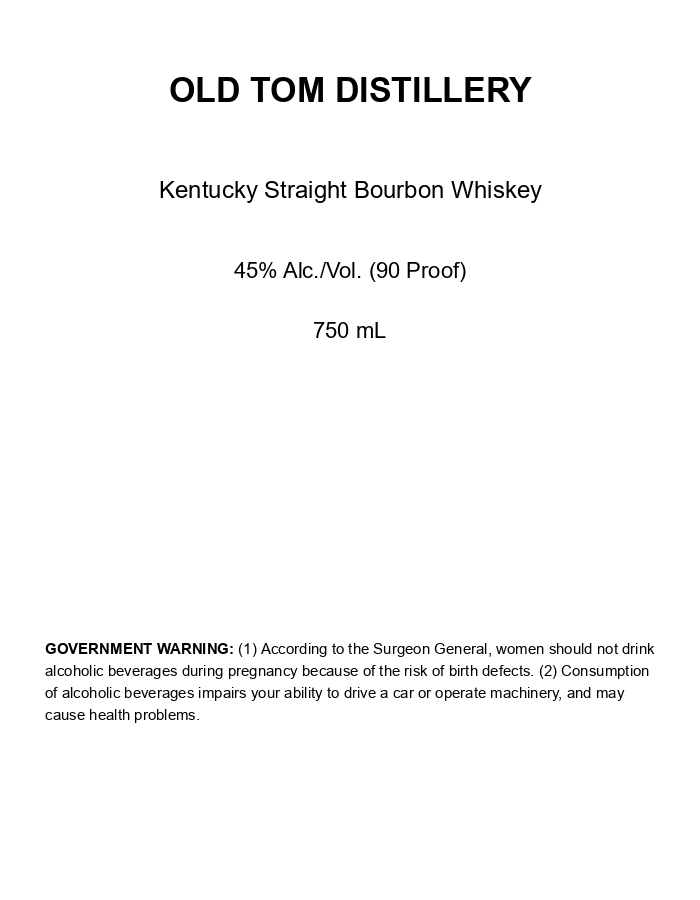
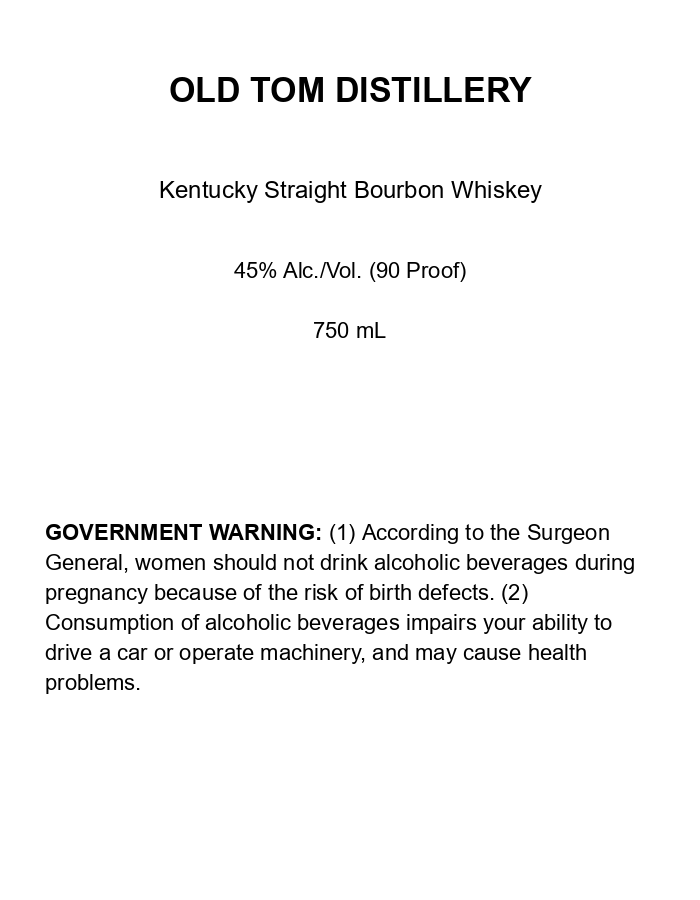
feat: bold detection — the GOVERNMENT WARNING typography check (16.22(a)(2))
Reads boldness from pixels (labels are raster; no font name to read). Mean stroke
width of the heading vs the body text on the same line: because they share a line
and type size, raw stroke widths compare directly (ratio >=1.30 bold, <=1.12 not,
between is review), and cap height only gates out text too small to judge (<14px,
which is where real 1-2mm warnings correctly land). One relative test enforces
both halves of the rule — a fully-bolded warning also fails, since the body would
be just as heavy as the heading.

- match/bold: stroke-width core (Otsu -> tall connected components -> skeleton ->
  distance transform) + the same-line locator, tolerant of OCR word-joins.
- rulebook: health_warning_bold rule (warning_bold strategy), wired via a lazy
  CV import so the engine stays importable without the vision deps.
- sample warning enlarged so the bold check is judgeable for the demo.

53 tests. Verified end-to-end: the compliant sample now returns PASS on all four
checks — warning verbatim, warning bold (ratio 1.53), brand, ABV consistency.

Assisted-by: Claude (claude-opus-4-8)

Changed region(s): [[0.06, 0.56, 0.93, 0.8089]]

diff --git a/src/label_assay/match/bold.py b/src/label_assay/match/bold.py
@@ -1,0 +1,133 @@
+"""Bold detection for the Government Warning heading — 27 CFR 16.22(a)(2).
+
+The heading words of the warning must appear in bold and the remainder must not.
+Bold cannot be read from a font name (labels arrive as raster images), so it is
+measured: the mean stroke width of the heading is compared against the body text
+sitting on the same line, at the same size. The comparison is RELATIVE and
+INTERNAL — no absolute DPI is needed, only "are the heading's strokes meaningfully
+thicker than the body's, right next to it."
+
+Method: mean stroke width from the distance transform over the skeleton of the
+tall connected components (which drops small punctuation). Because the heading
+and the body share a line and a type size, their raw stroke widths compare
+directly — a ratio at/above 1.30 is bold, at/below 1.12 is not, in between is a
+human call. Cap height is used only to abstain when the text is under ~14px (too
+small to judge from pixels). Tuned so a false "bold" (approving a non-compliant
+label) is near-zero; residual errors fall to review.
+"""
+
+from __future__ import annotations
+
+import enum
+import io
+import re
+from dataclasses import dataclass
+
+_MIN_CAP_PX = 14.0
+_BOLD_RATIO = 1.30
+_NOT_BOLD_RATIO = 1.12
+
+
+class BoldVerdict(enum.StrEnum):
+    BOLD_OK = "bold_ok"      # heading bold, remainder not
+    NOT_BOLD = "not_bold"    # heading not distinctly bolder than the body
+    REVIEW = "review"        # too small / could not measure
+
+
+@dataclass(frozen=True)
+class BoldFinding:
+    verdict: BoldVerdict
+    detail: str
+    ratio: float | None
+
+
+@dataclass(frozen=True)
+class _Strokes:
+    stroke_px: float  # mean stroke width in pixels
+    cap_px: float     # cap height in pixels, for the too-small-to-judge guard
+
+
+def measure_strokes(gray) -> _Strokes | None:
+    """Mean stroke-width-to-cap-height for the dark text in a grayscale crop."""
+    import cv2
+    import numpy as np
+    from skimage.morphology import skeletonize
+
+    if gray is None or gray.size == 0 or min(gray.shape[:2]) < 4:
+        return None
+
+    # Otsu; on a light label, THRESH_BINARY_INV makes dark text the foreground.
+    _thr, binary = cv2.threshold(gray, 0, 255, cv2.THRESH_BINARY_INV | cv2.THRESH_OTSU)
+    if (binary > 0).mean() > 0.5:  # text should be the minority; fix polarity if not
+        binary = cv2.bitwise_not(binary)
+    if int((binary > 0).sum()) < 20:
+        return None
+
+    count, labels, stats, _centroids = cv2.connectedComponentsWithStats(binary, connectivity=8)
+    if count <= 1:
+        return None
+    heights = stats[1:, cv2.CC_STAT_HEIGHT]
+    tall_threshold = 0.6 * float(heights.max())
+    tall_ids = [i for i in range(1, count) if stats[i, cv2.CC_STAT_HEIGHT] >= tall_threshold]
+    if not tall_ids:
+        return None
+
+    cap = float(np.median([stats[i, cv2.CC_STAT_HEIGHT] for i in tall_ids]))
+    tall_mask = np.isin(labels, tall_ids)
+    skeleton = skeletonize(tall_mask)
+    if not skeleton.any() or cap <= 0:
+        return None
+
+    dist = cv2.distanceTransform(tall_mask.astype(np.uint8), cv2.DIST_L2, 5)
+    stroke = float(np.mean(2.0 * dist[skeleton]))
+    return _Strokes(stroke_px=stroke, cap_px=cap)
+
+
+def bold_ratio_verdict(head_gray, body_gray) -> BoldFinding:
+    head, body = measure_strokes(head_gray), measure_strokes(body_gray)
+    if head is None or body is None or body.stroke_px <= 0:
+        return BoldFinding(BoldVerdict.REVIEW, "Could not measure stroke widths reliably.", None)
+    if min(head.cap_px, body.cap_px) < _MIN_CAP_PX:
+        return BoldFinding(BoldVerdict.REVIEW, "Warning text is too small to judge boldness from the image.", None)
+
+    ratio = head.stroke_px / body.stroke_px
+    if ratio >= _BOLD_RATIO:
+        return BoldFinding(BoldVerdict.BOLD_OK, f"The heading is bolder than the body text (ratio {ratio:.2f}).", ratio)
+    if ratio <= _NOT_BOLD_RATIO:
+        return BoldFinding(
+            BoldVerdict.NOT_BOLD,
+            f"The heading is not distinctly bolder than the rest of the statement (ratio {ratio:.2f}).",
+            ratio,
+        )
+    return BoldFinding(BoldVerdict.REVIEW, f"Heading weight is borderline (ratio {ratio:.2f}).", ratio)
+
+
+def check_warning_bold(image: bytes, ocr_lines) -> BoldFinding:
+    """Locate the warning heading via OCR, split it into the heading words and the
+    body text on the same line, and compare their stroke widths."""
+    import numpy as np
+    from PIL import Image
+
+    gray = np.asarray(Image.open(io.BytesIO(image)).convert("L"))
+    # OCR often drops the space between rendered words ("GOVERNMENTWARNING"), so
+    # locate the heading on the space-insensitive form.
+    line = next(
+        (ln for ln in ocr_lines if ln.box and "governmentwarning" in re.sub(r"[^a-z0-9]", "", ln.text.casefold())),
+        None,
+    )
+    if line is None:
+        return BoldFinding(BoldVerdict.REVIEW, "Could not locate the warning heading to check boldness.", None)
+
+    xs = [p[0] for p in line.box]
+    ys = [p[1] for p in line.box]
+    x0, x1, y0, y1 = int(min(xs)), int(max(xs)), int(min(ys)), int(max(ys))
+
+    match = re.search(r"warning", line.text, re.IGNORECASE)
+    if not match:
+        return BoldFinding(BoldVerdict.REVIEW, "Could not delimit the warning heading.", None)
+    split = x0 + int((x1 - x0) * (match.end() / len(line.text)))
+
+    head, body = gray[y0:y1, x0:split], gray[y0:y1, split:x1]
+    if head.size == 0 or body.size == 0 or (x1 - split) < 10:
+        return BoldFinding(BoldVerdict.REVIEW, "Not enough body text beside the heading to compare.", None)
+    return bold_ratio_verdict(head, body)

diff --git a/tests/test_bold.py b/tests/test_bold.py
@@ -1,0 +1,57 @@
+"""Bold detection: the stroke-width algorithm on controlled crops, and the
+warning-region locator on the sample label."""
+
+from __future__ import annotations
+
+from pathlib import Path
+
+import numpy as np
+import pytest
+from PIL import Image, ImageDraw, ImageFont
+
+from label_assay.match.bold import BoldVerdict, bold_ratio_verdict, check_warning_bold
+
+SAMPLE = Path(__file__).resolve().parents[1] / "samples" / "bourbon_compliant.png"
+
+
+def _crop(text: str, *, bold: bool, size: int = 40) -> np.ndarray:
+    names = ("arialbd.ttf", "DejaVuSans-Bold.ttf") if bold else ("arial.ttf", "DejaVuSans.ttf")
+    font: ImageFont.FreeTypeFont | ImageFont.ImageFont = ImageFont.load_default(size)
+    for name in names:
+        try:
+            font = ImageFont.truetype(name, size)
+            break
+        except OSError:
+            continue
+    img = Image.new("L", (640, 72), color=255)
+    ImageDraw.Draw(img).text((6, 6), text, font=font, fill=0)
+    return np.asarray(img)
+
+
+def test_bold_heading_beats_regular_body() -> None:
+    head = _crop("GOVERNMENT WARNING", bold=True)
+    body = _crop("according to the surgeon general", bold=False)
+    assert bold_ratio_verdict(head, body).verdict == BoldVerdict.BOLD_OK
+
+
+def test_regular_heading_is_not_flagged_bold() -> None:
+    head = _crop("GOVERNMENT WARNING", bold=False)
+    body = _crop("according to the surgeon general", bold=False)
+    assert bold_ratio_verdict(head, body).verdict != BoldVerdict.BOLD_OK
+
+
+def test_tiny_text_abstains_to_review() -> None:
+    # Below the ~14px cap-height floor the check must not commit either way.
+    head = _crop("GOVERNMENT WARNING", bold=True, size=12)
+    body = _crop("according to the surgeon general", bold=False, size=12)
+    assert bold_ratio_verdict(head, body).verdict == BoldVerdict.REVIEW
+
+
+@pytest.mark.skipif(not SAMPLE.exists(), reason="run samples/make_samples.py first")
+def test_sample_bold_heading_is_not_falsely_failed() -> None:
+    from label_assay.extract.ocr import read_lines
+
+    image = SAMPLE.read_bytes()
+    result = check_warning_bold(image, read_lines(image))
+    # The sample's heading is genuinely bold; the check must never FAIL it.
+    assert result.verdict != BoldVerdict.NOT_BOLD

diff --git a/src/label_assay/verify/engine.py b/src/label_assay/verify/engine.py
@@ -90,12 +90,28 @@ def _match_abv_consistency(rule: Rule, ctx: VerifyContext) -> Finding:
     return _finding(rule, Verdict.PASS, "The stated alcohol content is internally consistent.")
 
 
+def _match_warning_bold(rule: Rule, ctx: VerifyContext) -> Finding:
+    if ctx.image is None or not ctx.ocr_lines:
+        return _finding(rule, Verdict.NOT_EVALUABLE, "Boldness was not checked (image or OCR not available).")
+    # Imported lazily so the engine stays importable without the CV dependencies.
+    from label_assay.match.bold import BoldVerdict, check_warning_bold
+
+    result = check_warning_bold(ctx.image, ctx.ocr_lines)
+    mapping = {
+        BoldVerdict.BOLD_OK: Verdict.PASS,
+        BoldVerdict.NOT_BOLD: Verdict.FAIL,
+        BoldVerdict.REVIEW: Verdict.NEEDS_REVIEW,
+    }
+    return _finding(rule, mapping[result.verdict], result.detail)
+
+
 # Strategy name -> matcher. The rulebook selects the strategy; the engine never
 # names an individual rule. A rule whose strategy has no matcher yet is skipped.
 _MATCHERS: dict[str, Callable[[Rule, VerifyContext], Finding]] = {
     "verbatim": _match_warning_verbatim,
     "brand_match": _match_brand,
     "abv_consistency": _match_abv_consistency,
+    "warning_bold": _match_warning_bold,
 }
 
 _REVIEW_NOTE = " (Unconfirmed: a second reading of the label did not corroborate this, so a person should verify it.)"

diff --git a/samples/make_samples.py b/samples/make_samples.py
@@ -40,9 +40,11 @@ def _font(weight: str, size: int) -> ImageFont.FreeTypeFont:
 
 
 def _draw_warning(draw: ImageDraw.ImageDraw, x: int, y: int, right: int) -> None:
-    bold, regular = _font("bold", 15), _font("regular", 15)
+    # Rendered larger than a real 1-2mm warning so the bold check is judgeable
+    # from pixels (below a ~14px cap height it correctly abstains to review).
+    bold, regular = _font("bold", 22), _font("regular", 22)
     space = draw.textlength(" ", font=regular)
-    cx, cy, line_h = x, y, 22
+    cx, cy, line_h = x, y, 30
     for i, word in enumerate(WARNING.split(" ")):
         font = bold if i < 2 else regular  # "GOVERNMENT" and "WARNING:" are bold
         w = draw.textlength(word, font=font)
@@ -59,7 +61,7 @@ def make_bourbon_compliant() -> Path:
     d.text((350, 190), "Kentucky Straight Bourbon Whiskey", font=_font("regular", 24), fill="black", anchor="mm")
     d.text((350, 270), "45% Alc./Vol. (90 Proof)", font=_font("regular", 22), fill="black", anchor="mm")
     d.text((350, 330), "750 mL", font=_font("regular", 22), fill="black", anchor="mm")
-    _draw_warning(d, 45, 640, 655)
+    _draw_warning(d, 45, 520, 655)
     path = OUT / "bourbon_compliant.png"
     img.save(path)
     return path

diff --git a/tests/test_engine.py b/tests/test_engine.py
@@ -151,3 +151,22 @@ def test_corroborating_ocr_leaves_the_pass_intact() -> None:
 def test_dead_ocr_does_not_single_out_any_field() -> None:
     # An unreadable image must not manufacture per-field failures.
     assert unconfirmed_fields(_compliant_extraction(), [OcrLine("", 0.0)]) == set()
+
+
+@pytest.mark.skipif(not SAMPLE.exists(), reason="run samples/make_samples.py first")
+def test_bold_finding_runs_when_image_and_ocr_supplied() -> None:
+    # Offline (no key): fixture extraction + real image + real OCR exercise the
+    # bold check through the engine. A compliant label must not FAIL.
+    from label_assay.extract.ocr import read_lines
+
+    image = SAMPLE.read_bytes()
+    report = verify(
+        _compliant_extraction(),
+        _application(),
+        load_rulebook(),
+        image=image,
+        ocr_lines=read_lines(image),
+    )
+    bold = next((f for f in report.findings if f.rule_id == "health_warning_bold"), None)
+    assert bold is not None
+    assert bold.verdict != Verdict.FAIL

diff --git a/src/label_assay/rulebook/loader.py b/src/label_assay/rulebook/loader.py
@@ -19,7 +19,7 @@ from pydantic import BaseModel, Field
 # A rule naming anything outside this set fails to load. New strategies are
 # added deliberately, in code and here — never invented in a rule file.
 KNOWN_STRATEGIES = frozenset(
-    {"verbatim", "brand_match", "abv_consistency", "caps_bold", "presence"}
+    {"verbatim", "brand_match", "abv_consistency", "warning_bold", "presence"}
 )
 
 
